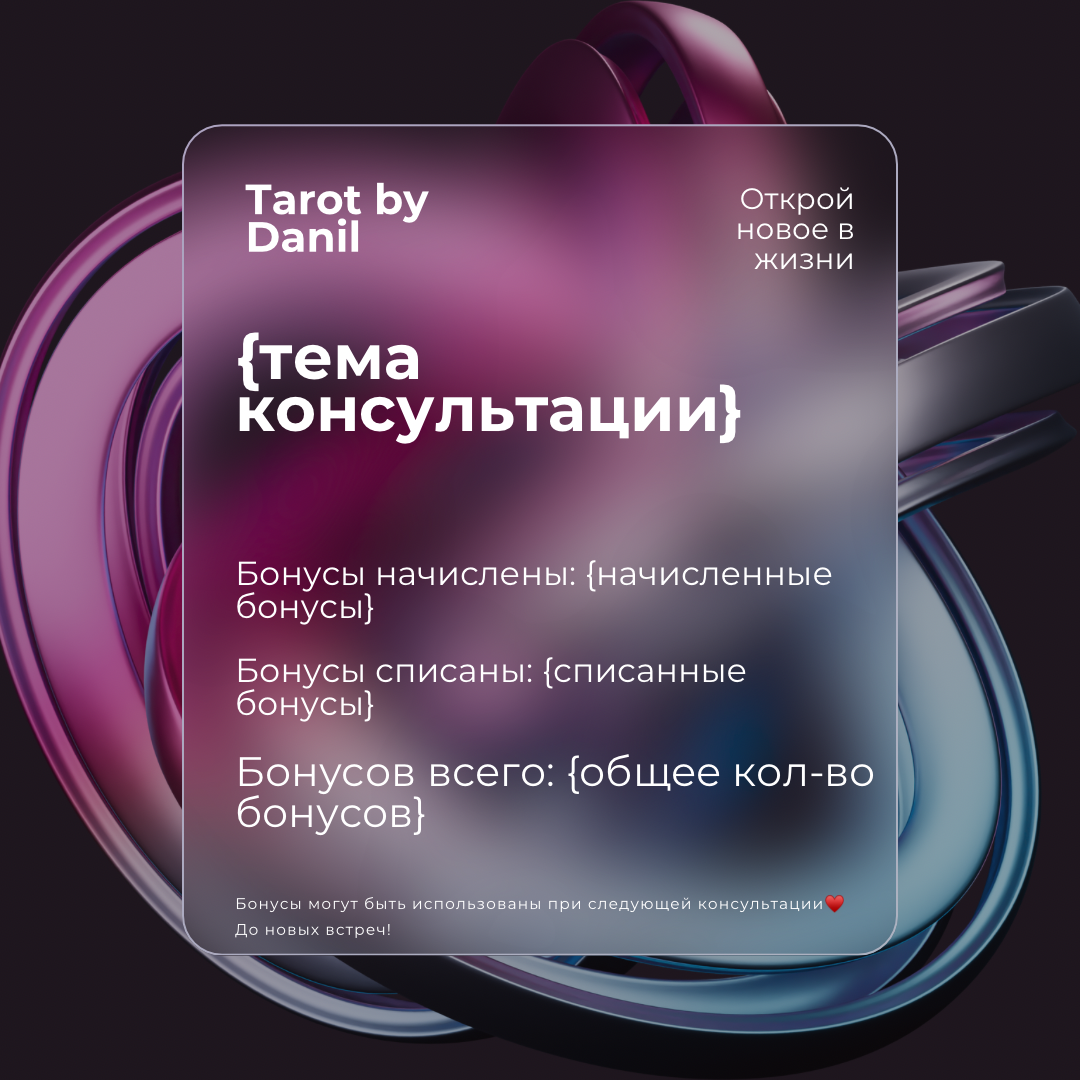
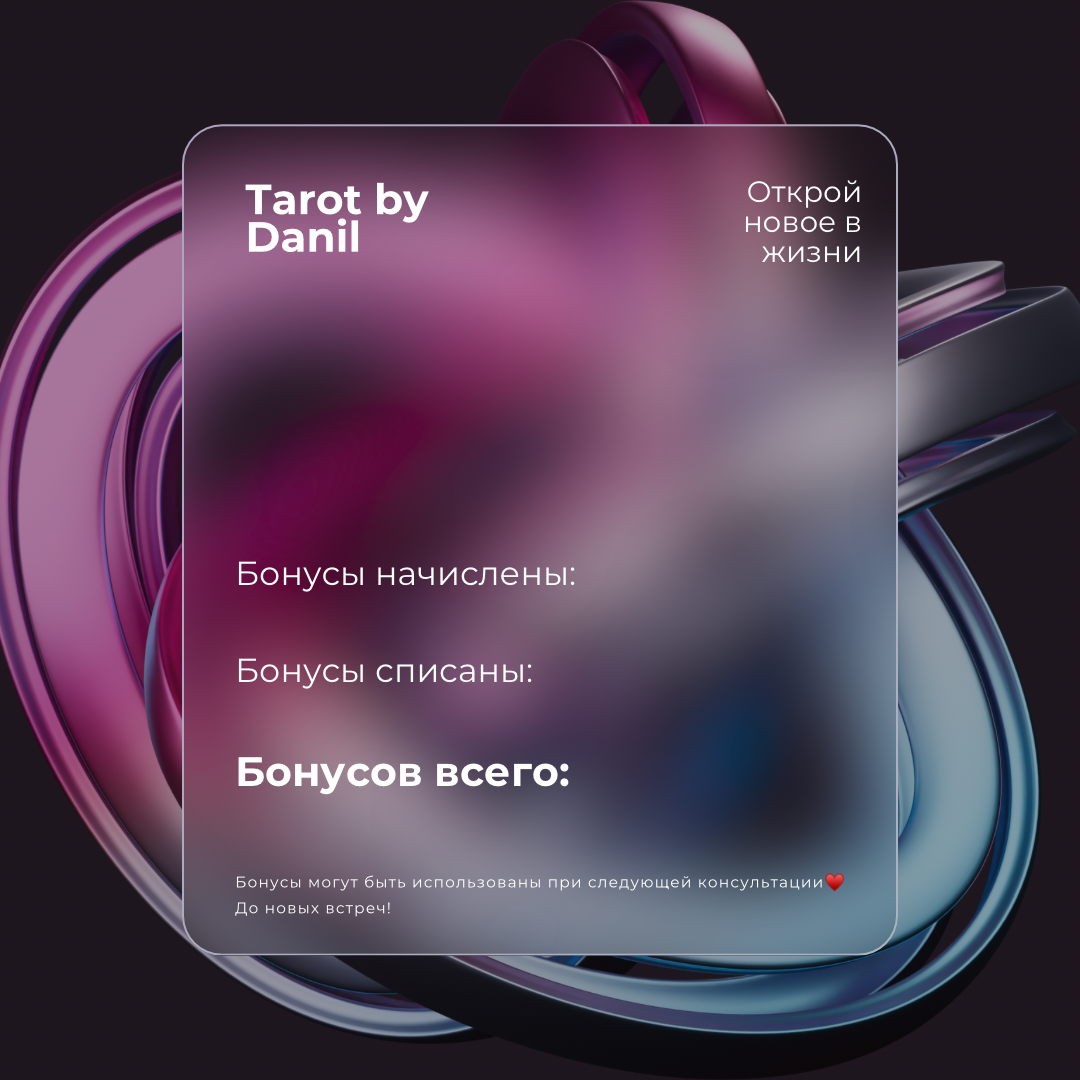
fix: place bonus values on static template

diff --git a/api/telegram/card.js b/api/telegram/card.js
@@ -7,6 +7,14 @@ const WIDTH = 1200;
 const HEIGHT = 630;
 const __dirname = dirname(fileURLToPath(import.meta.url));
 const BONUS_TEMPLATE_PATH = join(__dirname, '../../public/telegram/bonus-template.png');
+const TITLE_X = 238;
+const TITLE_Y = 382;
+const ACCRUED_X = 612;
+const ACCRUED_Y = 584;
+const SPENT_X = 570;
+const SPENT_Y = 681;
+const TOTAL_X = 600;
+const TOTAL_Y = 784;
 
 const FONT = {
   A: ['01110', '10001', '10001', '11111', '10001', '10001', '10001'],
@@ -201,21 +209,55 @@ const formatMoney = (value, prefix = '') => {
   return `${prefix}${Math.round(normalized).toLocaleString('ru-RU')} ₽`;
 };
 
-const renderBonusTemplateCard = async ({ amount, spent, total }) => {
+const wrapText = (text, maxLineLength, maxLines) => {
+  const words = String(text || 'Консультация').trim().split(/\s+/).filter(Boolean);
+  const lines = [];
+  let currentLine = '';
+
+  words.forEach((word) => {
+    const nextLine = currentLine ? `${currentLine} ${word}` : word;
+    if (nextLine.length <= maxLineLength) {
+      currentLine = nextLine;
+      return;
+    }
+
+    if (currentLine) lines.push(currentLine);
+    currentLine = word;
+  });
+
+  if (currentLine) lines.push(currentLine);
+
+  if (lines.length > maxLines) {
+    const visibleLines = lines.slice(0, maxLines);
+    visibleLines[maxLines - 1] = `${visibleLines[maxLines - 1].replace(/[.,:;!?—-]+$/, '')}…`;
+    return visibleLines;
+  }
+
+  return lines;
+};
+
+const renderTitleTspans = (title) => {
+  const lines = wrapText(title, 19, 3);
+  const fontSize = lines.length > 2 ? 48 : 58;
+  const lineHeight = lines.length > 2 ? 54 : 58;
+
+  return lines.map((line, index) => (
+    `<tspan x="${TITLE_X}" dy="${index === 0 ? 0 : lineHeight}">${escapeSvg(line)}</tspan>`
+  )).join('');
+};
+
+const renderBonusTemplateCard = async ({ amount, spent, total, title }) => {
   const overlay = `
     <svg width="1080" height="1080" viewBox="0 0 1080 1080" xmlns="http://www.w3.org/2000/svg">
       <style>
-        .title { font: 800 66px Arial, Helvetica, sans-serif; fill: #fff; letter-spacing: -1.5px; }
-        .line { font: 400 38px Arial, Helvetica, sans-serif; fill: #fff; letter-spacing: -0.4px; }
-        .value { font-weight: 800; }
+        .title { font-family: Arial, Helvetica, sans-serif; font-weight: 800; fill: #fff; letter-spacing: -1.4px; }
+        .amount { font: 400 34px Arial, Helvetica, sans-serif; fill: #fff; letter-spacing: -0.3px; }
+        .total { font: 600 42px Arial, Helvetica, sans-serif; fill: #fff; letter-spacing: -0.6px; }
       </style>
-      <rect x="214" y="315" width="548" height="132" rx="18" fill="#3a263e"/>
-      <text class="title" x="238" y="392">Бонусы</text>
-
-      <rect x="214" y="530" width="748" height="310" rx="24" fill="#3a2d43"/>
-      <text class="line" x="238" y="593">Бонусы начислены: <tspan class="value">${escapeSvg(formatMoney(amount, '+'))}</tspan></text>
-      <text class="line" x="238" y="691">Бонусы списаны: <tspan class="value">${escapeSvg(formatMoney(spent))}</tspan></text>
-      <text class="line" x="238" y="789">Бонусов всего: <tspan class="value">${escapeSvg(formatMoney(total))}</tspan></text>
+      <text class="title" x="${TITLE_X}" y="${TITLE_Y}" font-size="${wrapText(title, 19, 3).length > 2 ? 48 : 58}">${renderTitleTspans(title)}</text>
+      <text class="amount" x="${ACCRUED_X}" y="${ACCRUED_Y}">${escapeSvg(formatMoney(amount, '+'))}</text>
+      <text class="amount" x="${SPENT_X}" y="${SPENT_Y}">${escapeSvg(formatMoney(spent))}</text>
+      <text class="total" x="${TOTAL_X}" y="${TOTAL_Y}">${escapeSvg(formatMoney(total))}</text>
     </svg>
   `;
 
@@ -267,6 +309,7 @@ export default async function handler(request, response) {
   const type = url.searchParams.get('type') || 'booking';
   const image = type === 'bonus'
     ? await renderBonusTemplateCard({
+      title: url.searchParams.get('title') || '',
       amount: url.searchParams.get('amount') || '',
       spent: url.searchParams.get('spent') || '',
       total: url.searchParams.get('total') || url.searchParams.get('amount') || '',

diff --git a/src/lib/notifications.ts b/src/lib/notifications.ts
@@ -275,7 +275,8 @@ export const notifyClientBookingCreated = async (
 export const notifyClientBonusUpdate = async (
   clientTelegramId: string | number,
   bonusAmount: number,
-  newBalance: number
+  newBalance: number,
+  consultationTitle = 'Консультация'
 ) => {
   const message = `
 ✨ <b>Бонусы начислены</b>
@@ -288,6 +289,7 @@ export const notifyClientBonusUpdate = async (
 
   return sendTelegramNotification(clientTelegramId, message, {
     photoUrl: getTelegramCardUrl('bonus', {
+      title: consultationTitle,
       amount: bonusAmount,
       spent: 0,
       total: newBalance,

diff --git a/src/components/AdminConsultationsManager.tsx b/src/components/AdminConsultationsManager.tsx
@@ -232,7 +232,8 @@ export const AdminConsultationsManager = ({ onBack }: AdminConsultationsManagerP
         await notifyClientBonusUpdate(
           clientTelegramId,
           bonusEarned,
-          verifyUser?.bonus_balance || 0
+          verifyUser?.bonus_balance || 0,
+          selectedConsultation.services?.title || 'Консультация'
         );
       }
 

diff --git a/src/pages/AdminWebConsultations.tsx b/src/pages/AdminWebConsultations.tsx
@@ -165,7 +165,8 @@ export const AdminWebConsultations = () => {
         await notifyClientBonusUpdate(
           selectedConsultation.users.telegram_id,
           bonusEarned,
-          newBonusBalance
+          newBonusBalance,
+          selectedConsultation.services?.title || 'Консультация'
         );
       }
 